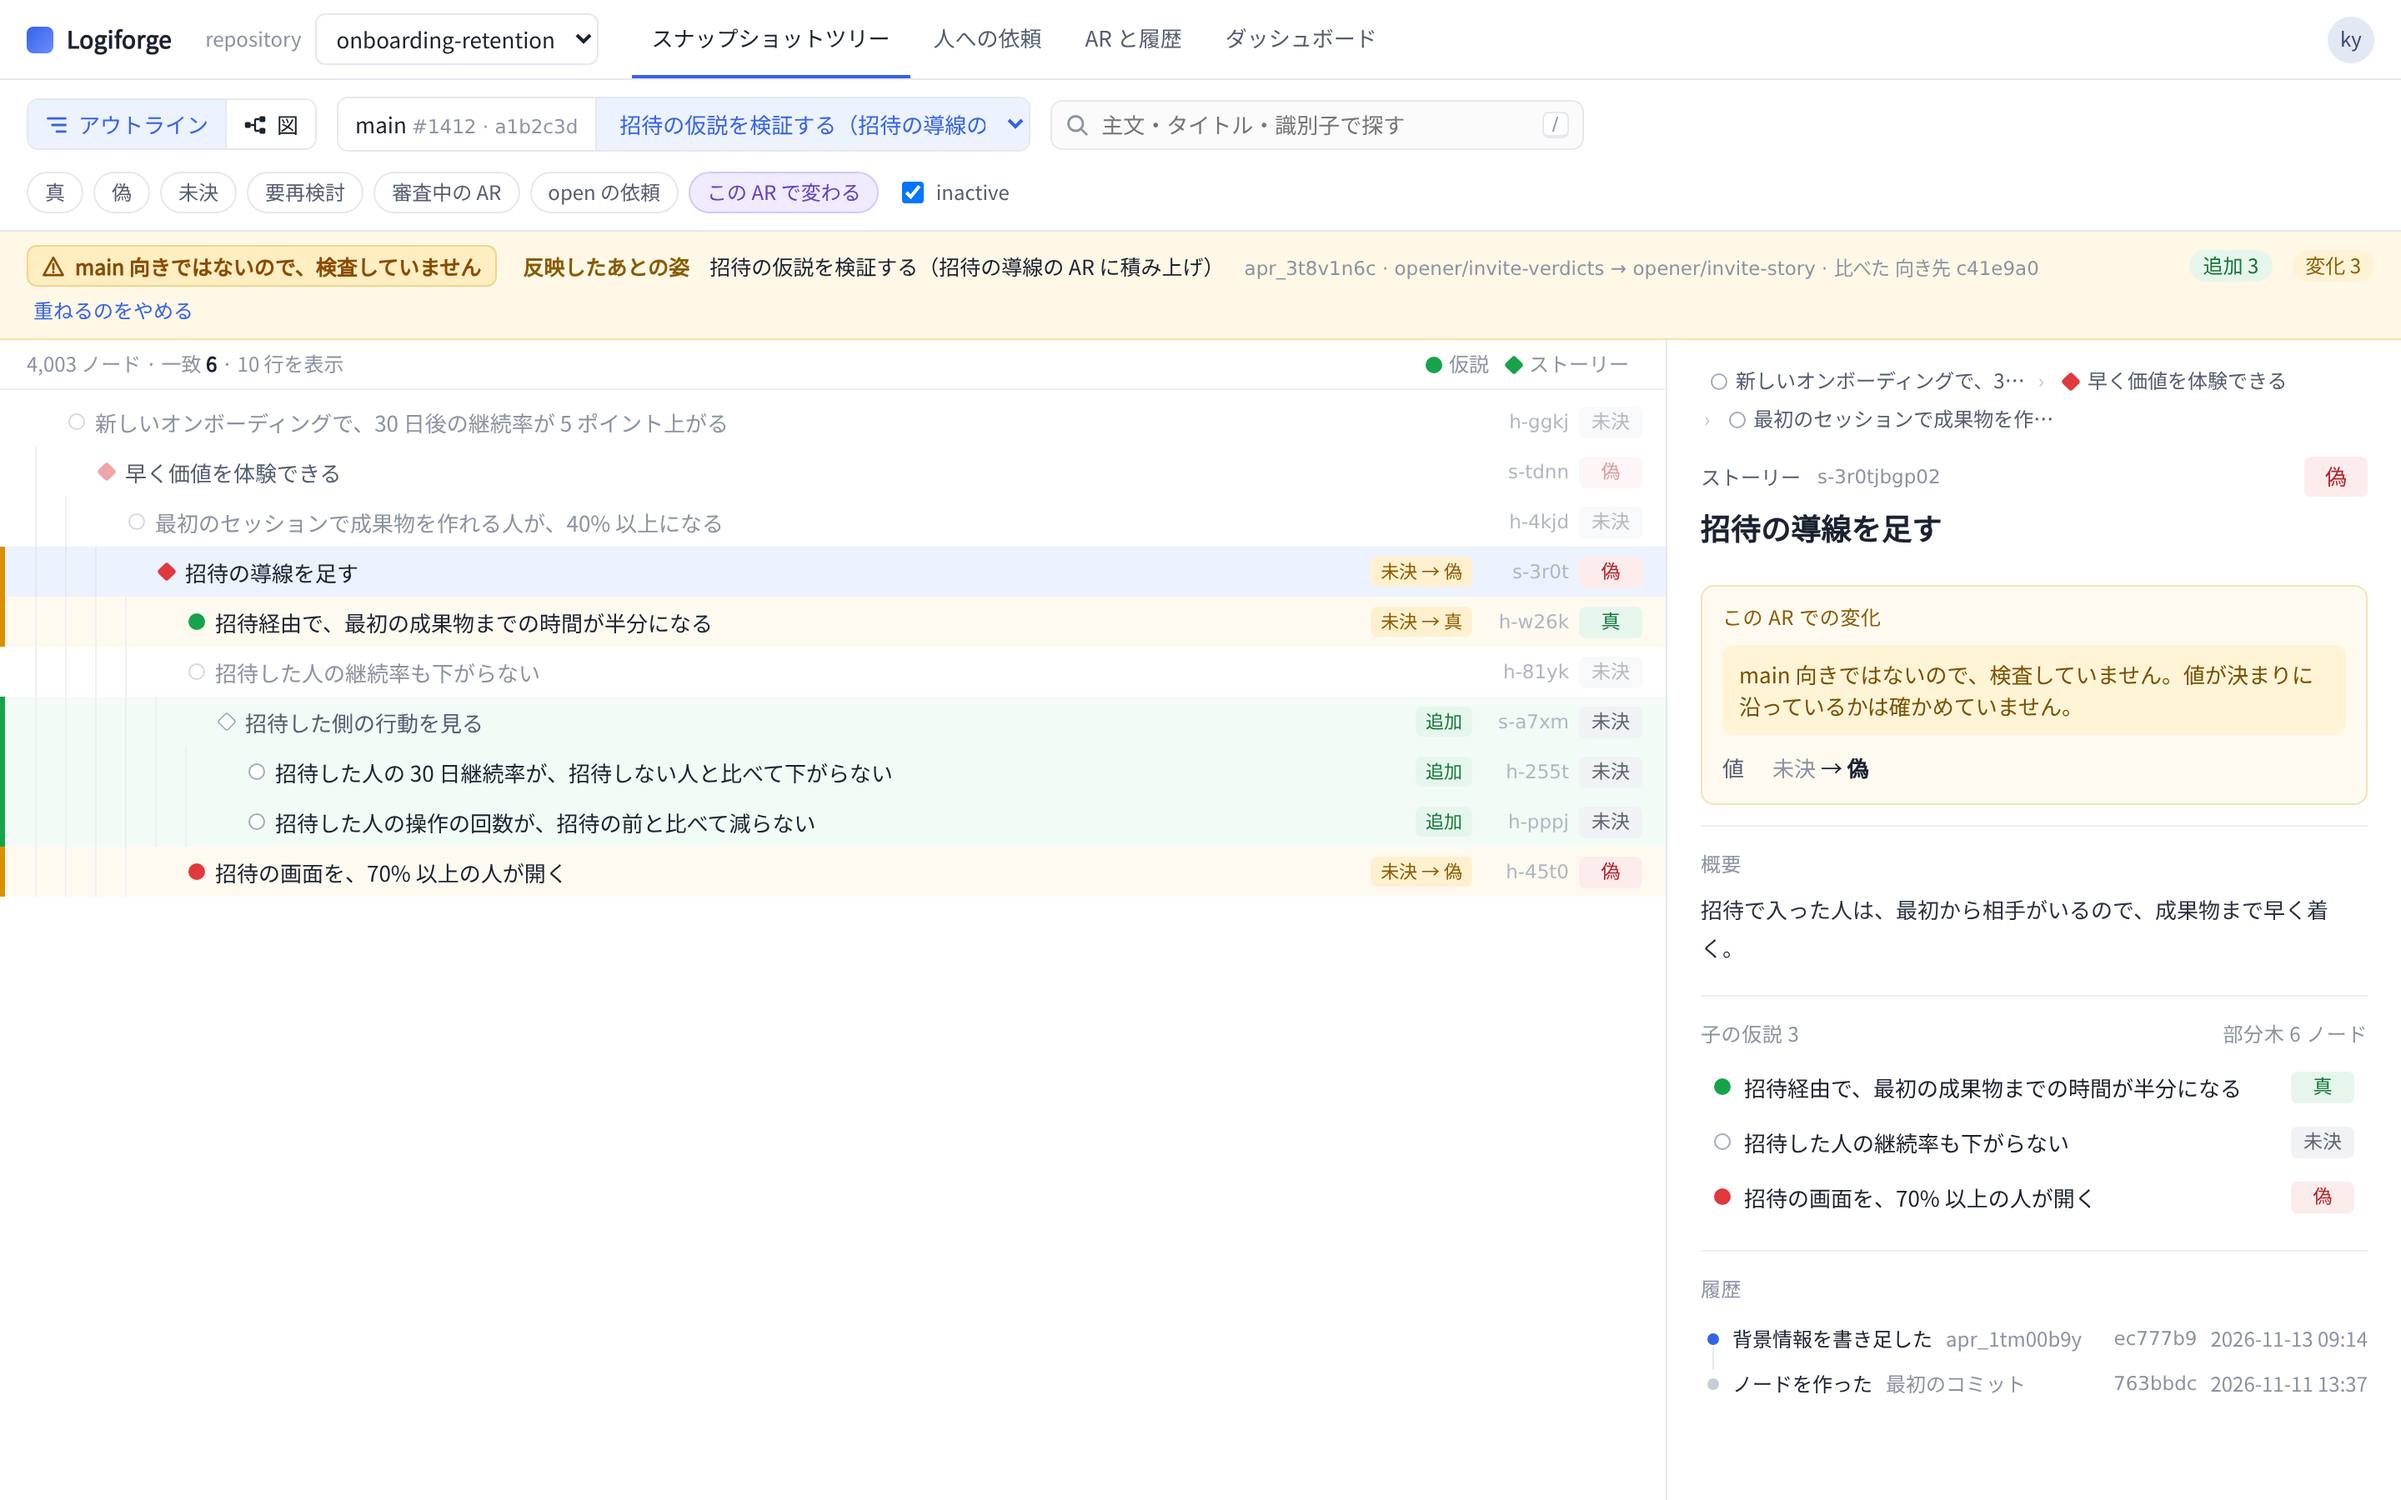
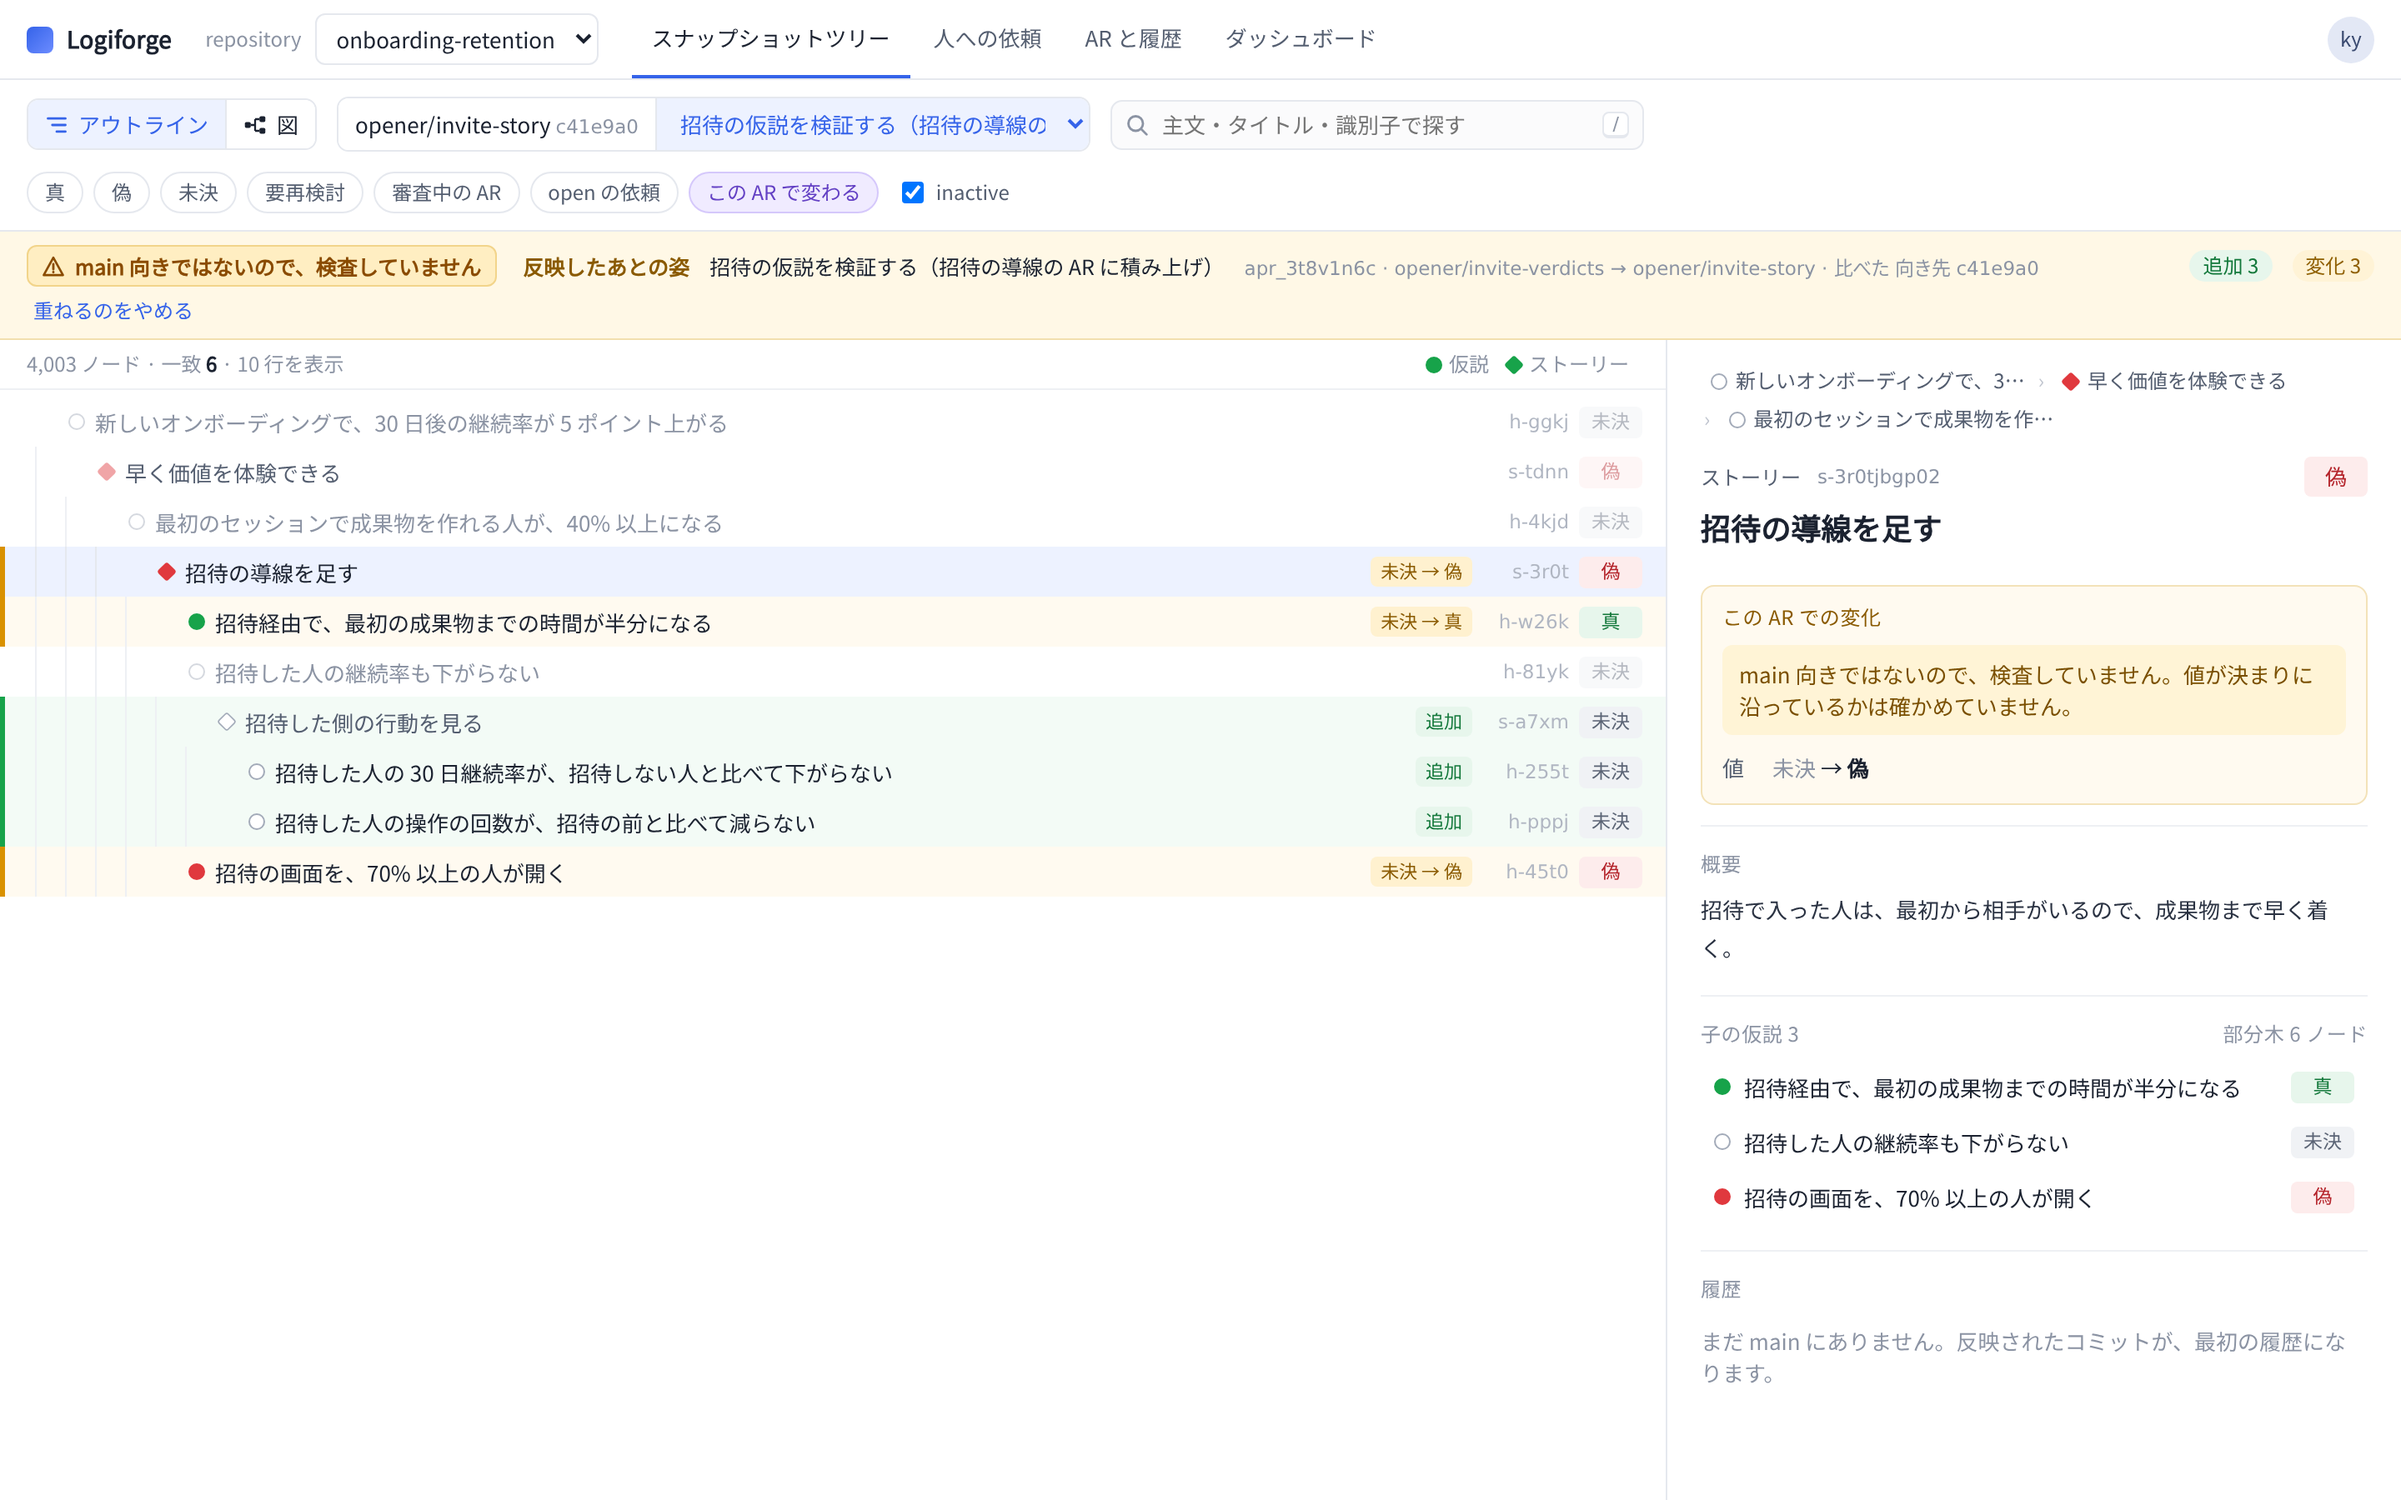
試作: main 向きでない AR では、道具の帯の札を向き先のブランチとコミットにし、main にないノードの履歴は「まだ main にありません」にする

Changed region(s): [[0.1562, 0.0622, 0.5938, 0.0933], [0.7188, 0.8711, 0.9688, 0.9333]]

diff --git a/prototypes/webui-viewer/src/DetailPane.tsx b/prototypes/webui-viewer/src/DetailPane.tsx
@@ -2,11 +2,11 @@ import { useEffect, useState } from 'react';
 import { getNodeExtra, type NodeDetailExtra } from './api';
 import { ancestors, textOf, vLabel, type Change, type Index, type Node, type TruthValue } from './model';
 
-interface Props { ix: Index; id: string | null; change: Change | null; onReveal: (id: string) => void; mobile: boolean; onClose: () => void; unchecked: boolean }
+interface Props { ix: Index; id: string | null; change: Change | null; onReveal: (id: string) => void; mobile: boolean; onClose: () => void; unchecked: boolean; notInMain: boolean }
 
 const vc = (v: TruthValue) => (v === true ? 'v-true' : v === false ? 'v-false' : 'v-null');
 
-export function DetailPane({ ix, id, change, onReveal, mobile, onClose, unchecked }: Props) {
+export function DetailPane({ ix, id, change, onReveal, mobile, onClose, unchecked, notInMain }: Props) {
   const n = id ? ix.byId.get(id) : undefined;
   const [extra, setExtra] = useState<NodeDetailExtra | null>(null);
   useEffect(() => {
@@ -142,7 +142,7 @@ export function DetailPane({ ix, id, change, onReveal, mobile, onClose, unchecke
       )}
 
       <Section title="履歴">
-        {change?.kind === 'added' ? <p className="dim">まだ main にありません。反映されたコミットが、最初の履歴になります。</p> : !extra ? <Skeleton /> : (
+        {change?.kind === 'added' || notInMain ? <p className="dim">まだ main にありません。反映されたコミットが、最初の履歴になります。</p> : !extra ? <Skeleton /> : (
           <ol className="history">
             {extra.history.map((h) => (
               <li key={h.commit}>

diff --git a/prototypes/webui-viewer/src/App.tsx b/prototypes/webui-viewer/src/App.tsx
@@ -207,7 +207,9 @@ export function App() {
         <div className="view">
           <div className="seg">
             <button className={overlay.state === 'none' ? 'on' : ''} onClick={() => openOverlay(null)}>
-              main <span className="mono dim">#{main.number} · {main.commit.slice(0, 7)}</span>
+              {overlay.state === 'ok' && overlay.ar.target !== 'main'
+                ? <>{overlay.ar.target} <span className="mono dim">{overlay.base.slice(0, 7)}</span></>
+                : <>main <span className="mono dim">#{main.number} · {main.commit.slice(0, 7)}</span></>}
             </button>
             <select
               className={overlay.state !== 'none' ? 'on' : ''}
@@ -354,6 +356,7 @@ export function App() {
           id={selected}
           change={selected && changes ? changes.get(selected) ?? null : null}
           unchecked={overlay.state === 'ok' && overlay.ar.target !== 'main'}
+          notInMain={!!selected && !main.ix.byId.has(selected)}
           onReveal={(id) => { reveal(id); }}
         />}
       </main>
